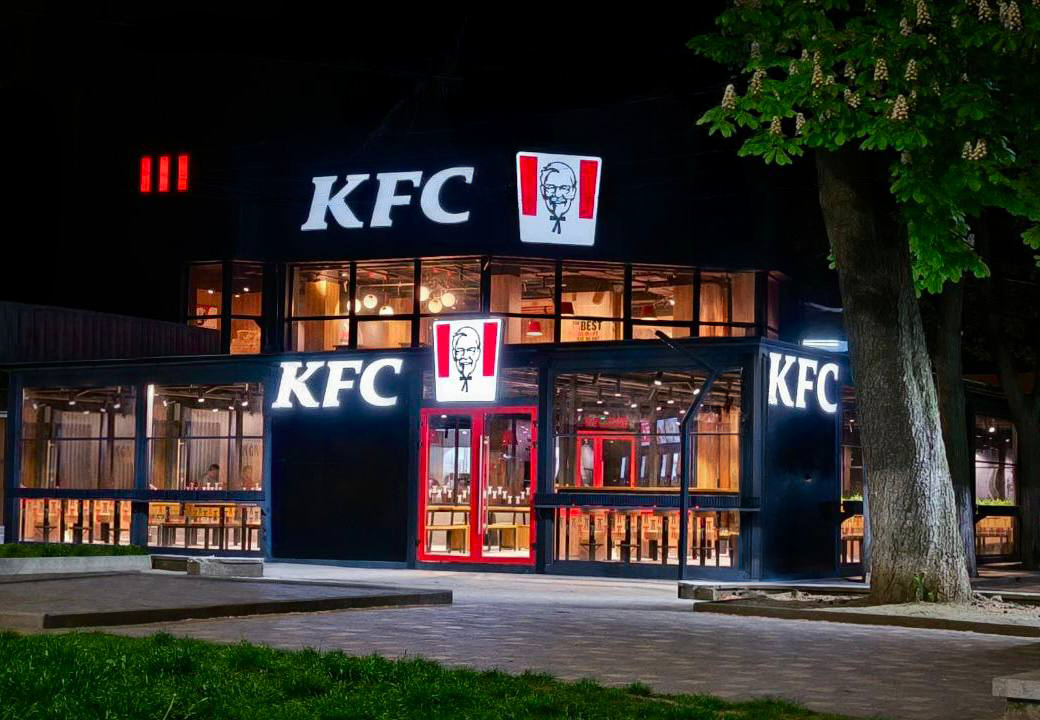
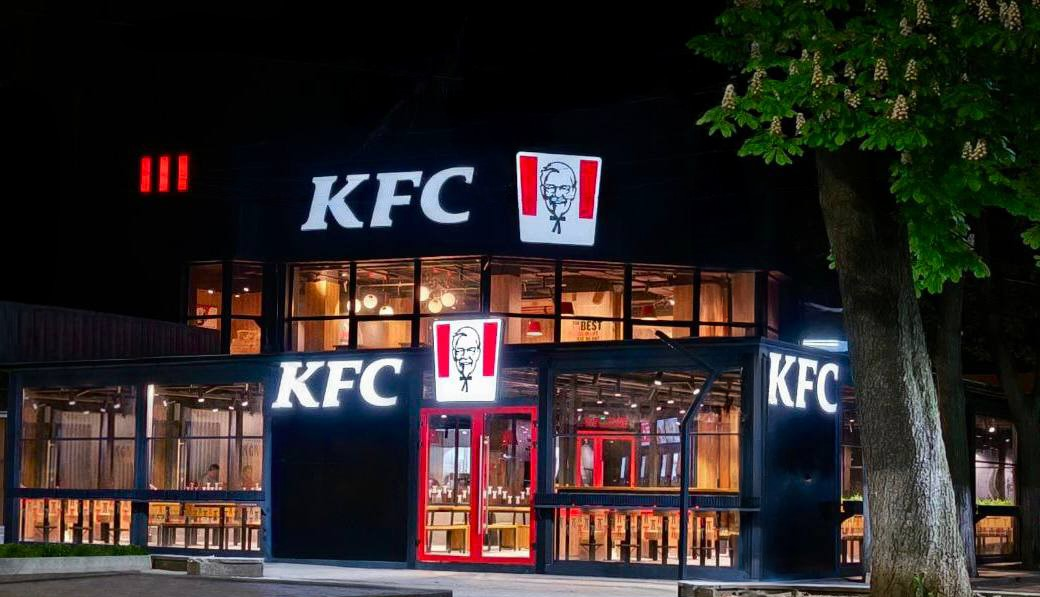
update

diff --git a/src/sections/Hero.jsx b/src/sections/Hero.jsx
@@ -8,7 +8,7 @@ const Hero = () => {
           src={HeroImage}
           alt="Про компанію та франчайзинг KFC"
           loading="lazy"
-          className="w-full h-[440px] md:h-[764px] xl:h-[856px] object-cover"
+          className="w-full h-[440px] md:h-[764px] xl:h-[600px] object-cover object-bottom"
         />
       </div>
     </section>
